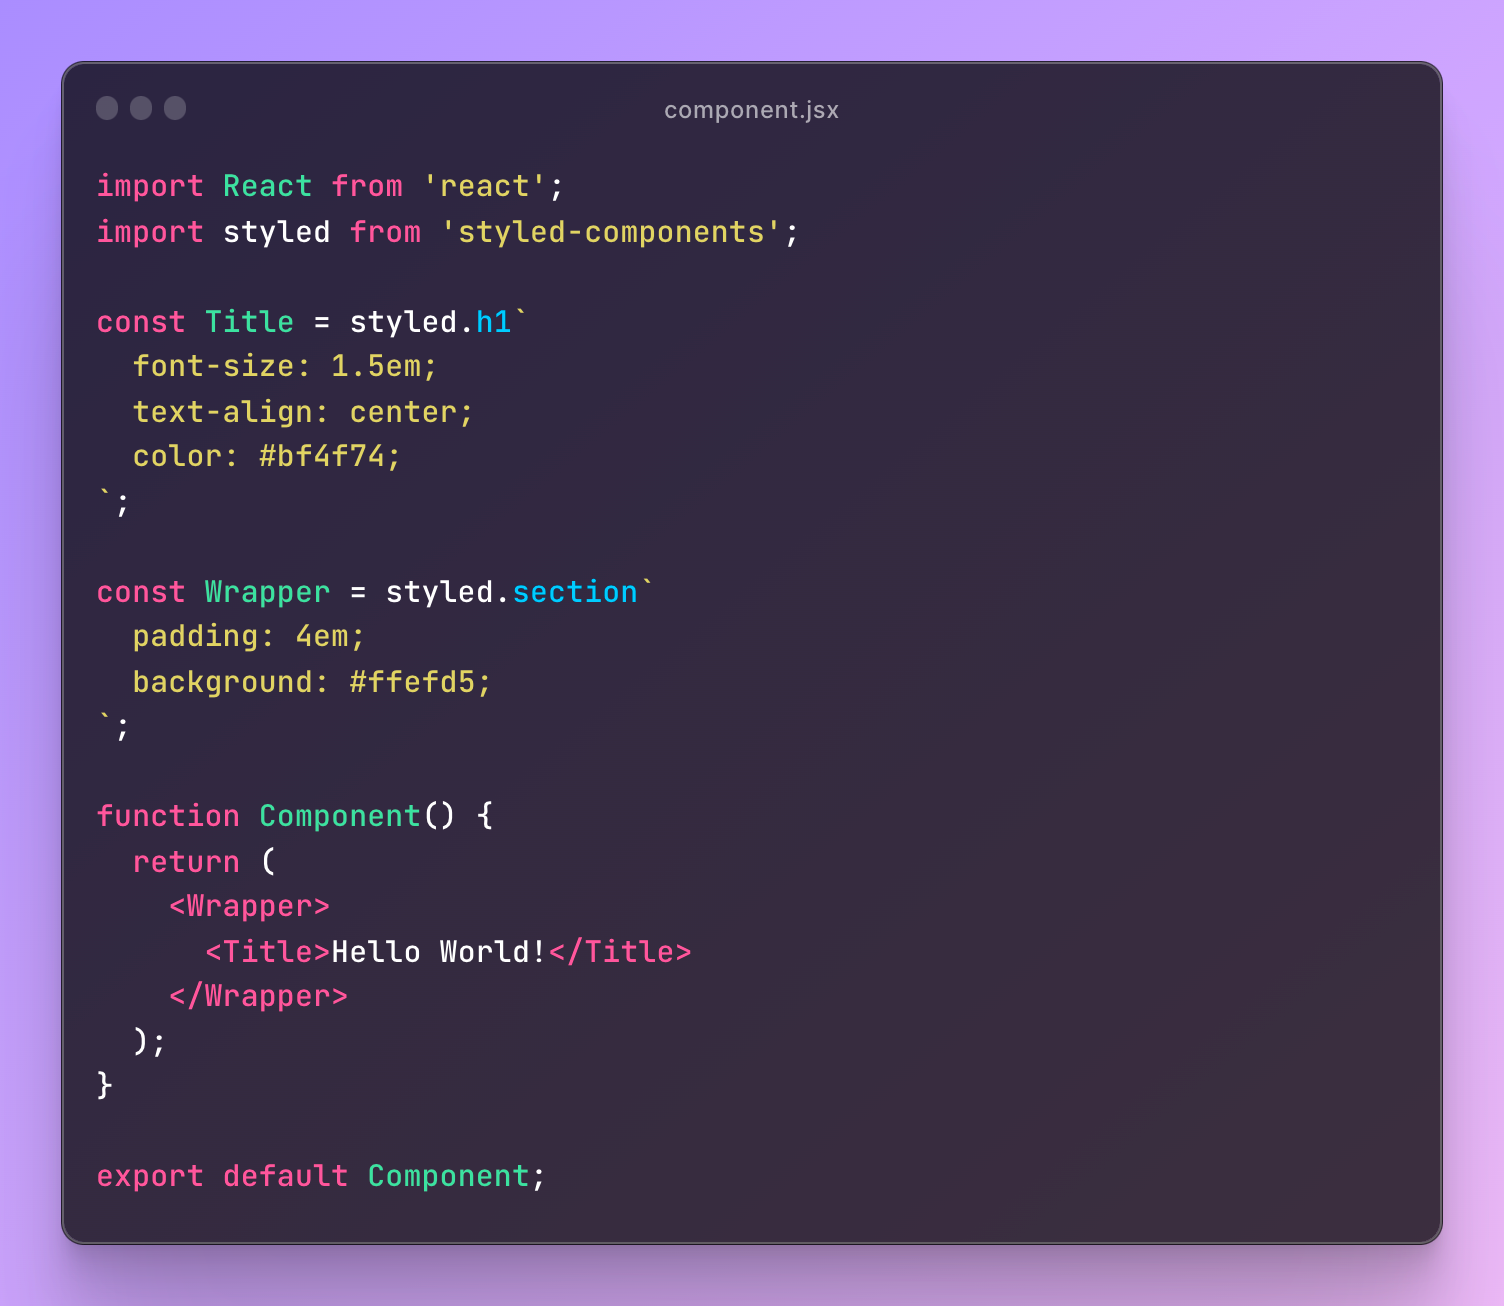
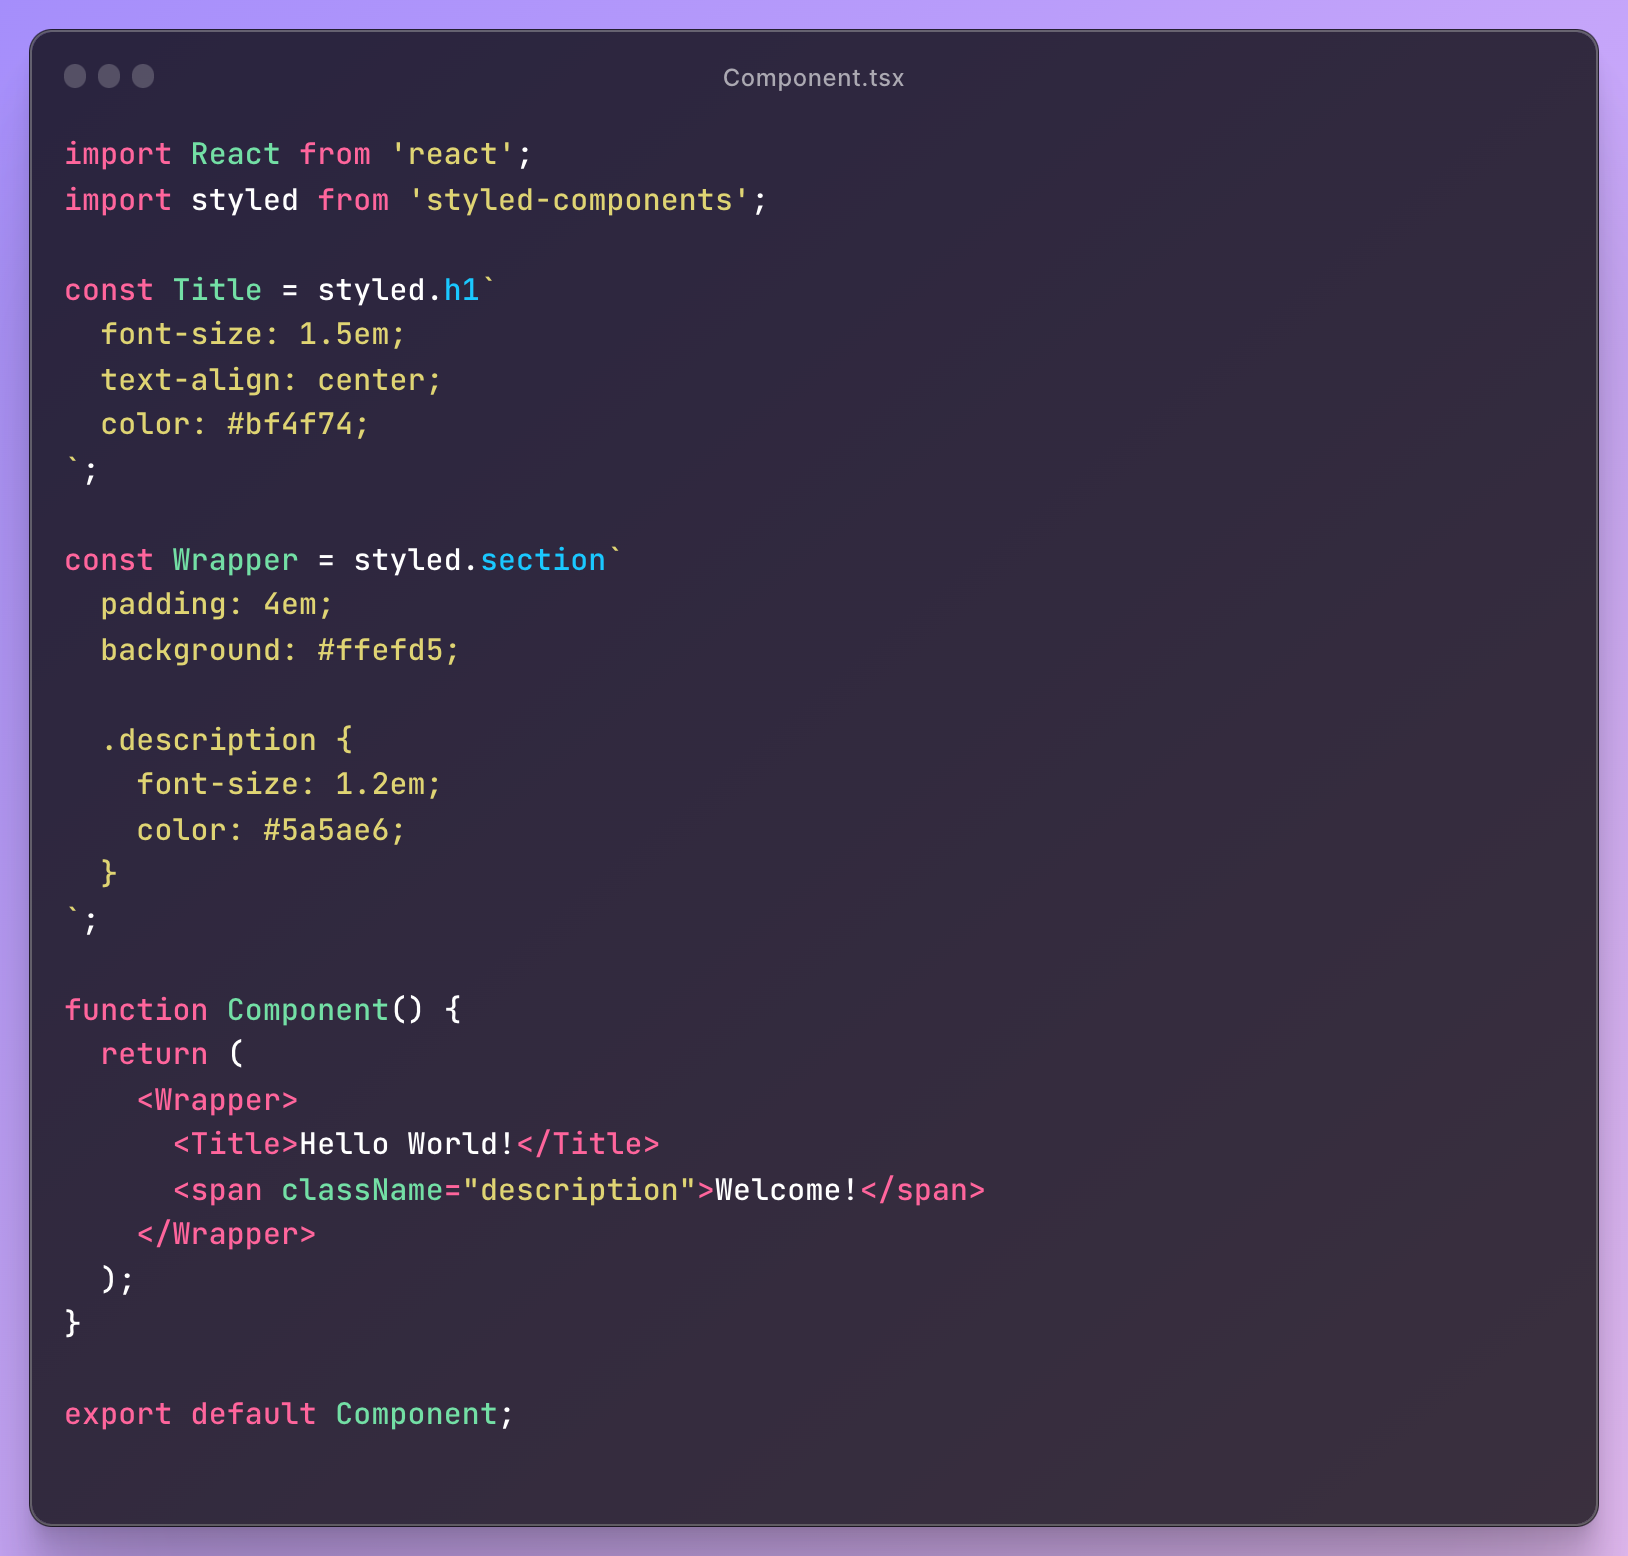
Update: tailwind-converter

Changed region(s): [[0.0, 0.0, 1.0, 1.0], [0.5625, 0.7351, 0.5938, 0.7963]]

diff --git a/content/blog/development/tailwind-converter.md b/content/blog/development/tailwind-converter.md
@@ -325,22 +325,24 @@ if (
   'value' in node.init.quasi.quasis[0] &&
   isObject(node.init.quasi.quasis[0].value)
 ) {
+  const sassScript = generateConcatenatedCSSTemplateLiteral(
+    node.init.quasi.quasis,
+  );
+
+  const parsedCSS = parseSass(sassScript);
+
   const componentDeclaration: ComponentDeclaration = {
     name: node.id.name,
     tag: node.init.tag.property.name,
-    styles: extractStylePropertyAndValue(
-      node.init.quasi.quasis[0].value.raw
-        .split(/[\n;]+/)
-        .filter((style: string) => !!style)
-        .map((style: string) => style.trim()),
-    ),
+    styles: parsedCSS,
   };
 
   componentDeclarations.push(componentDeclaration);
 }
 ```
 
-이로서 추상 구문 트리의 모든 레벨을 순회하여 styled를 통해 정의된 컴포넌트의 정보를 추출할 수 있었다.
+스타일 정의를 추출하는 작업은 sass, css 파서에게 맡겼다. sass 컴파일을 통해 css로 변환하고, 해당 css를 파싱해서 해당 컴포넌트의 스타일 정의와 값, 내부에
+정의되어 있는 클래스 또한 추출할 수 있었다. 이렇게 정의된 컴포넌트의 정보를 추상 구문 트리에서 획득했다.
 
 ## 2. 추출된 스타일 정의를 유틸리티 클래스로 변환하기
 
@@ -602,20 +604,13 @@ function Component() {
 
 ## 남은 과제
 
-단번에 모든 스타일된 컴포넌트 코드 스타일을 커버할 수 있는 변환기를 만들겠노라 목표하진 않았지만, 아직 조건부 스타일을 위한 보간(interpolation)이나 내부적으로
-사용될 클래스 정의를 어떻게 처리해야 할지 고민이 크다.
+단번에 모든 스타일된 컴포넌트 코드 스타일을 커버할 수 있는 변환기를 만들겠노라 목표하진 않았지만, 아직 조건부 스타일을 위한 보간 (interpolation)을 어떻게
+처리해야 할 지 고민이 크다.
 
 ```ts
 const Card = styled.div<{isSelected: boolean}>`
   ...
   border-width: ${({isSelected}) => isSelected ? '4px' : '2px'};  // ?
-  
-  .title {  // ?
-    ...
-  }
-  
-  .description {  // ?
-    ...
 `;
 ```
 
@@ -630,12 +625,7 @@ const Card = styled.div<{isSelected: boolean}>`
 }}>
 ```
 
-클래스의 경우 다음과 같이 임의의 클래스 선언으로 유틸리티 클래스를 할당해줄 수 있지만, styled의 인자로 전달된 리터럴은 추상 구문 트리에서 단순한 문자열로
-해석된다. 즉, 중첩된 클래스를 안전하게 해석하는 데 한계가 있을 수 있다. 클래스 정의의 시작점과 끝점을 찾아 문자열을 잘라내고 css 파서로 조작을 시도해 보고 있다.
-
-```js
-<div className="[&>.title]:... [&>.description]:...">
-```
+스타일 추출을 위해 sass 컴파일을 진행할 때 보간을 만나면 문법 에러를 발생시키기 때문에 현재 버전에서는 보간문을 모두 unset 속성으로 대체하여 변환하고 있다.
 
 ## 마치면서
 
